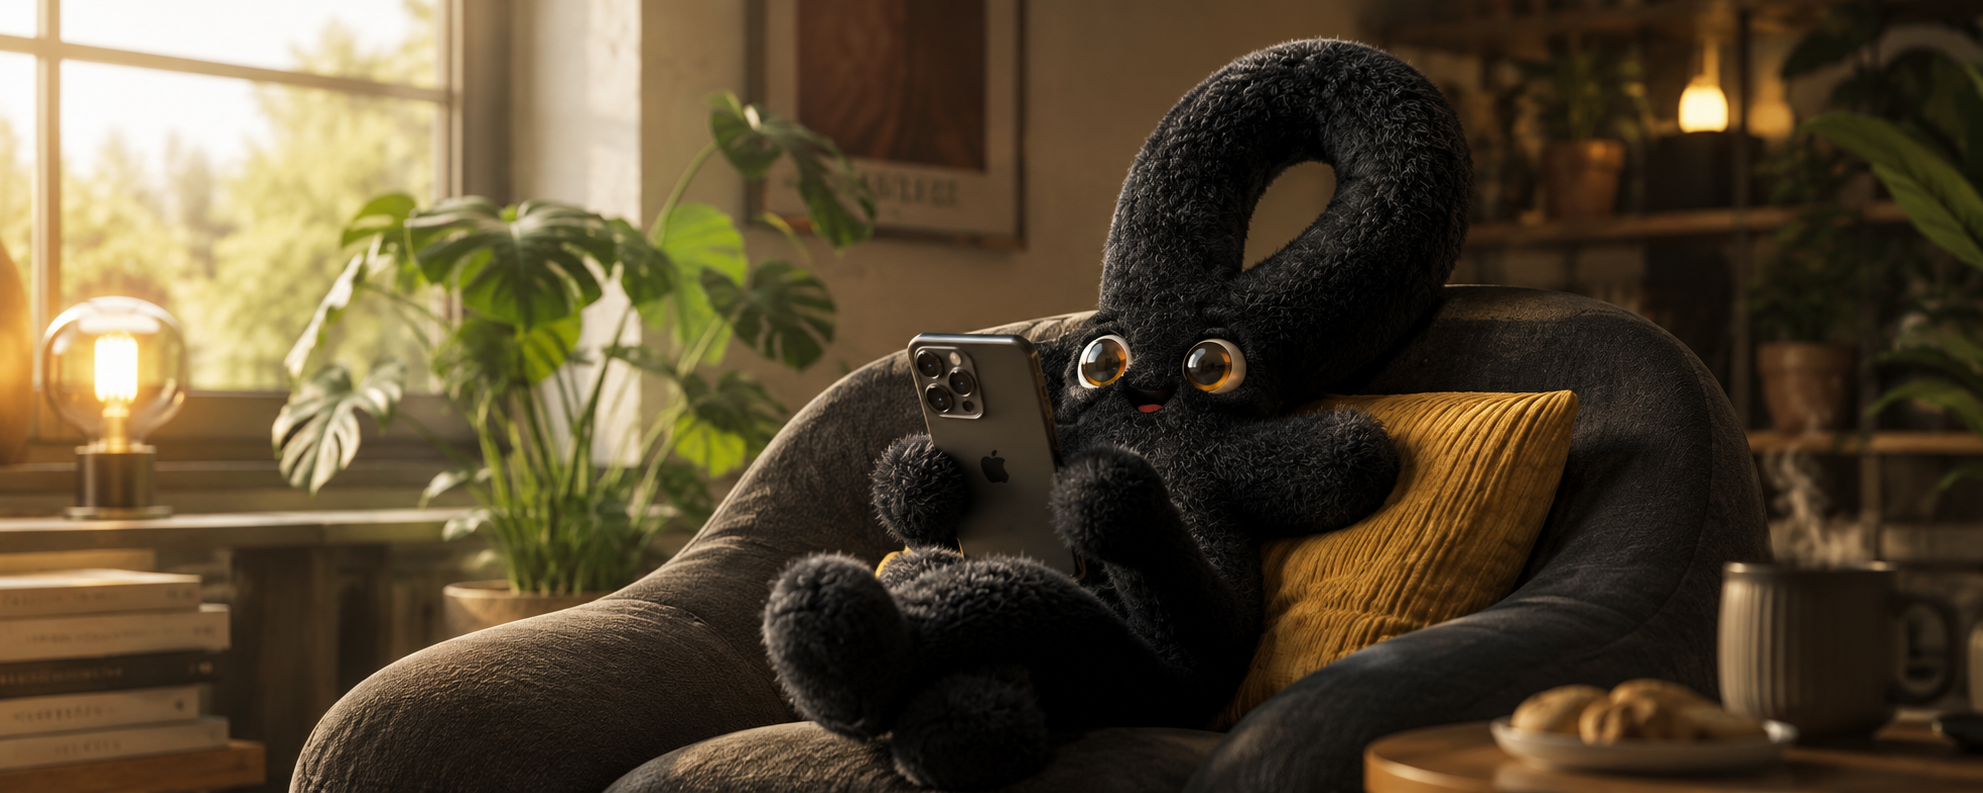
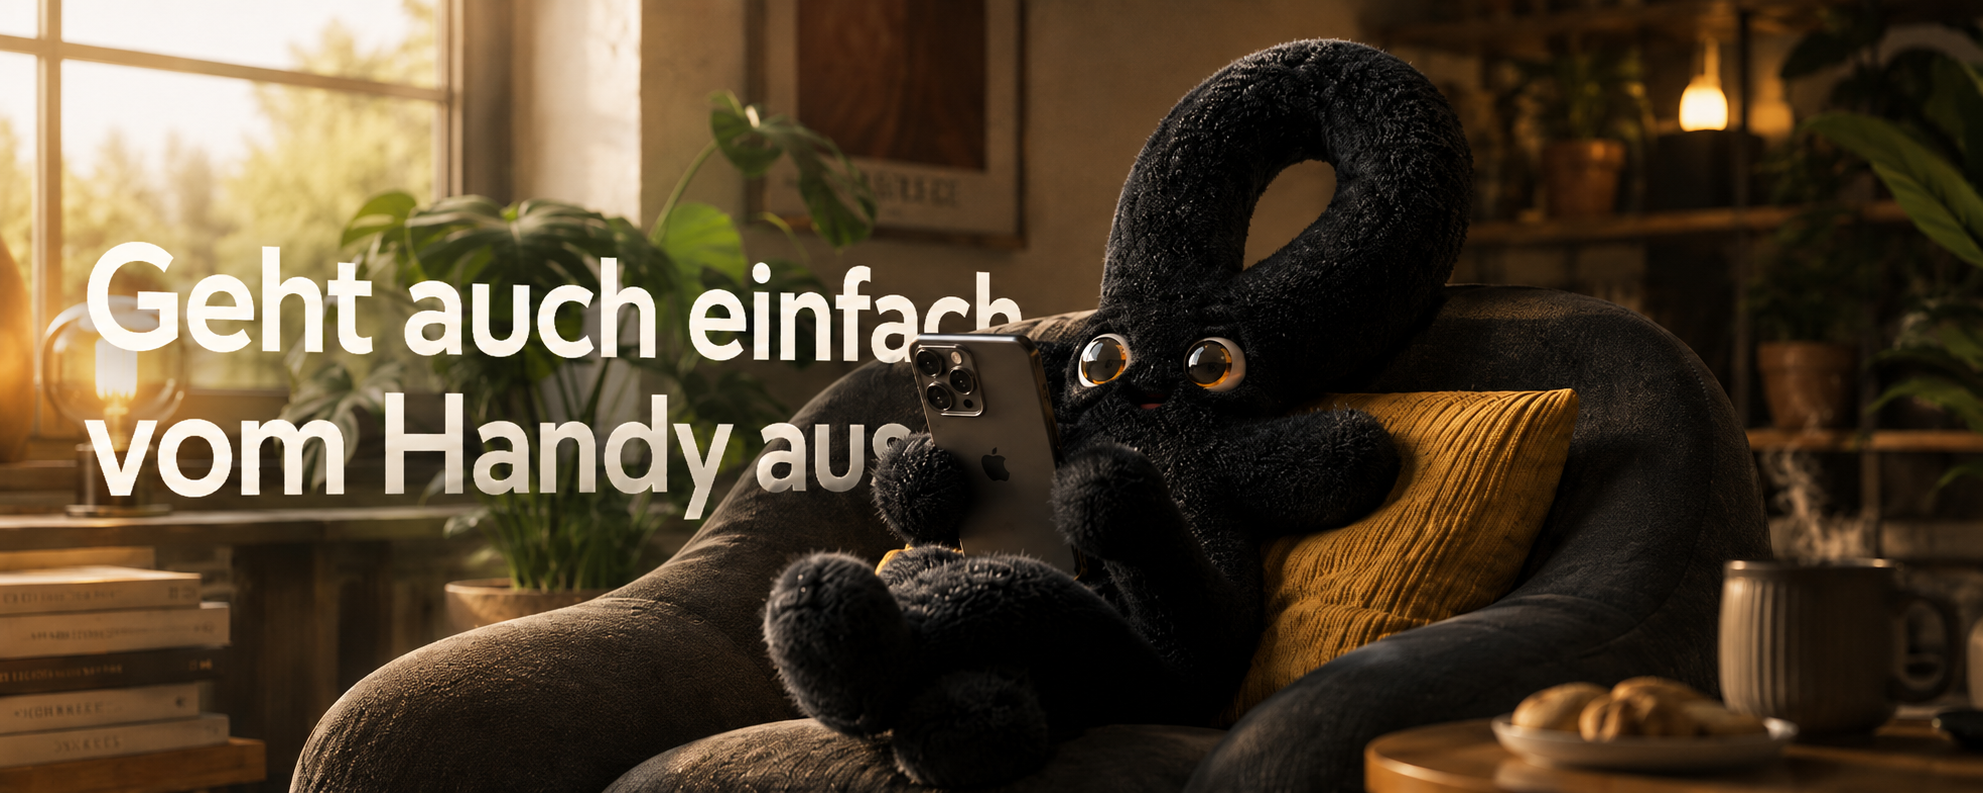
fix: smartphone card - plain image with baked-in text, no overlay

diff --git a/src/app/page.tsx b/src/app/page.tsx
@@ -243,26 +243,9 @@ export default async function HomePage() {
 
       {/* ══ SMARTPHONE CARD ══════════════════════════════════════════════ */}
       <section style={{ background: '#fff', padding: '0 24px 64px' }}>
-        <div style={{ maxWidth: 980, margin: '0 auto', borderRadius: 24, overflow: 'hidden', position: 'relative', minHeight: 260 }}>
-          {/* Background image */}
+        <div style={{ maxWidth: 980, margin: '0 auto', borderRadius: 24, overflow: 'hidden', lineHeight: 0 }}>
           {/* eslint-disable-next-line @next/next/no-img-element */}
-          <img src="/mascot-mobile.png" alt="" style={{ position: 'absolute', inset: 0, width: '100%', height: '100%', objectFit: 'cover', objectPosition: 'center 30%' }} />
-          {/* Gradient overlay — dark on left, transparent right */}
-          <div style={{ position: 'absolute', inset: 0, background: 'linear-gradient(to right, rgba(10,10,10,0.82) 0%, rgba(10,10,10,0.55) 45%, rgba(10,10,10,0.05) 75%, transparent 100%)' }} />
-          {/* Text */}
-          <div style={{ position: 'relative', zIndex: 1, padding: '52px 52px 52px 52px', maxWidth: 500 }}>
-            <p style={{ fontSize: 11, fontWeight: 700, color: 'rgba(255,255,255,0.5)', letterSpacing: '0.12em', textTransform: 'uppercase', marginBottom: 16 }}>Kein PC nötig</p>
-            <h2 style={{
-              fontFamily: '"Plein", sans-serif',
-              fontSize: 'clamp(28px, 3vw, 44px)',
-              fontWeight: 400,
-              color: '#fff',
-              lineHeight: 1.1,
-              letterSpacing: '-0.025em',
-            }}>
-              Geht auch einfach<br />vom Handy aus.
-            </h2>
-          </div>
+          <img src="/mascot-mobile.png" alt="Geht auch einfach vom Handy aus." style={{ width: '100%', height: 'auto', display: 'block' }} />
         </div>
       </section>
 